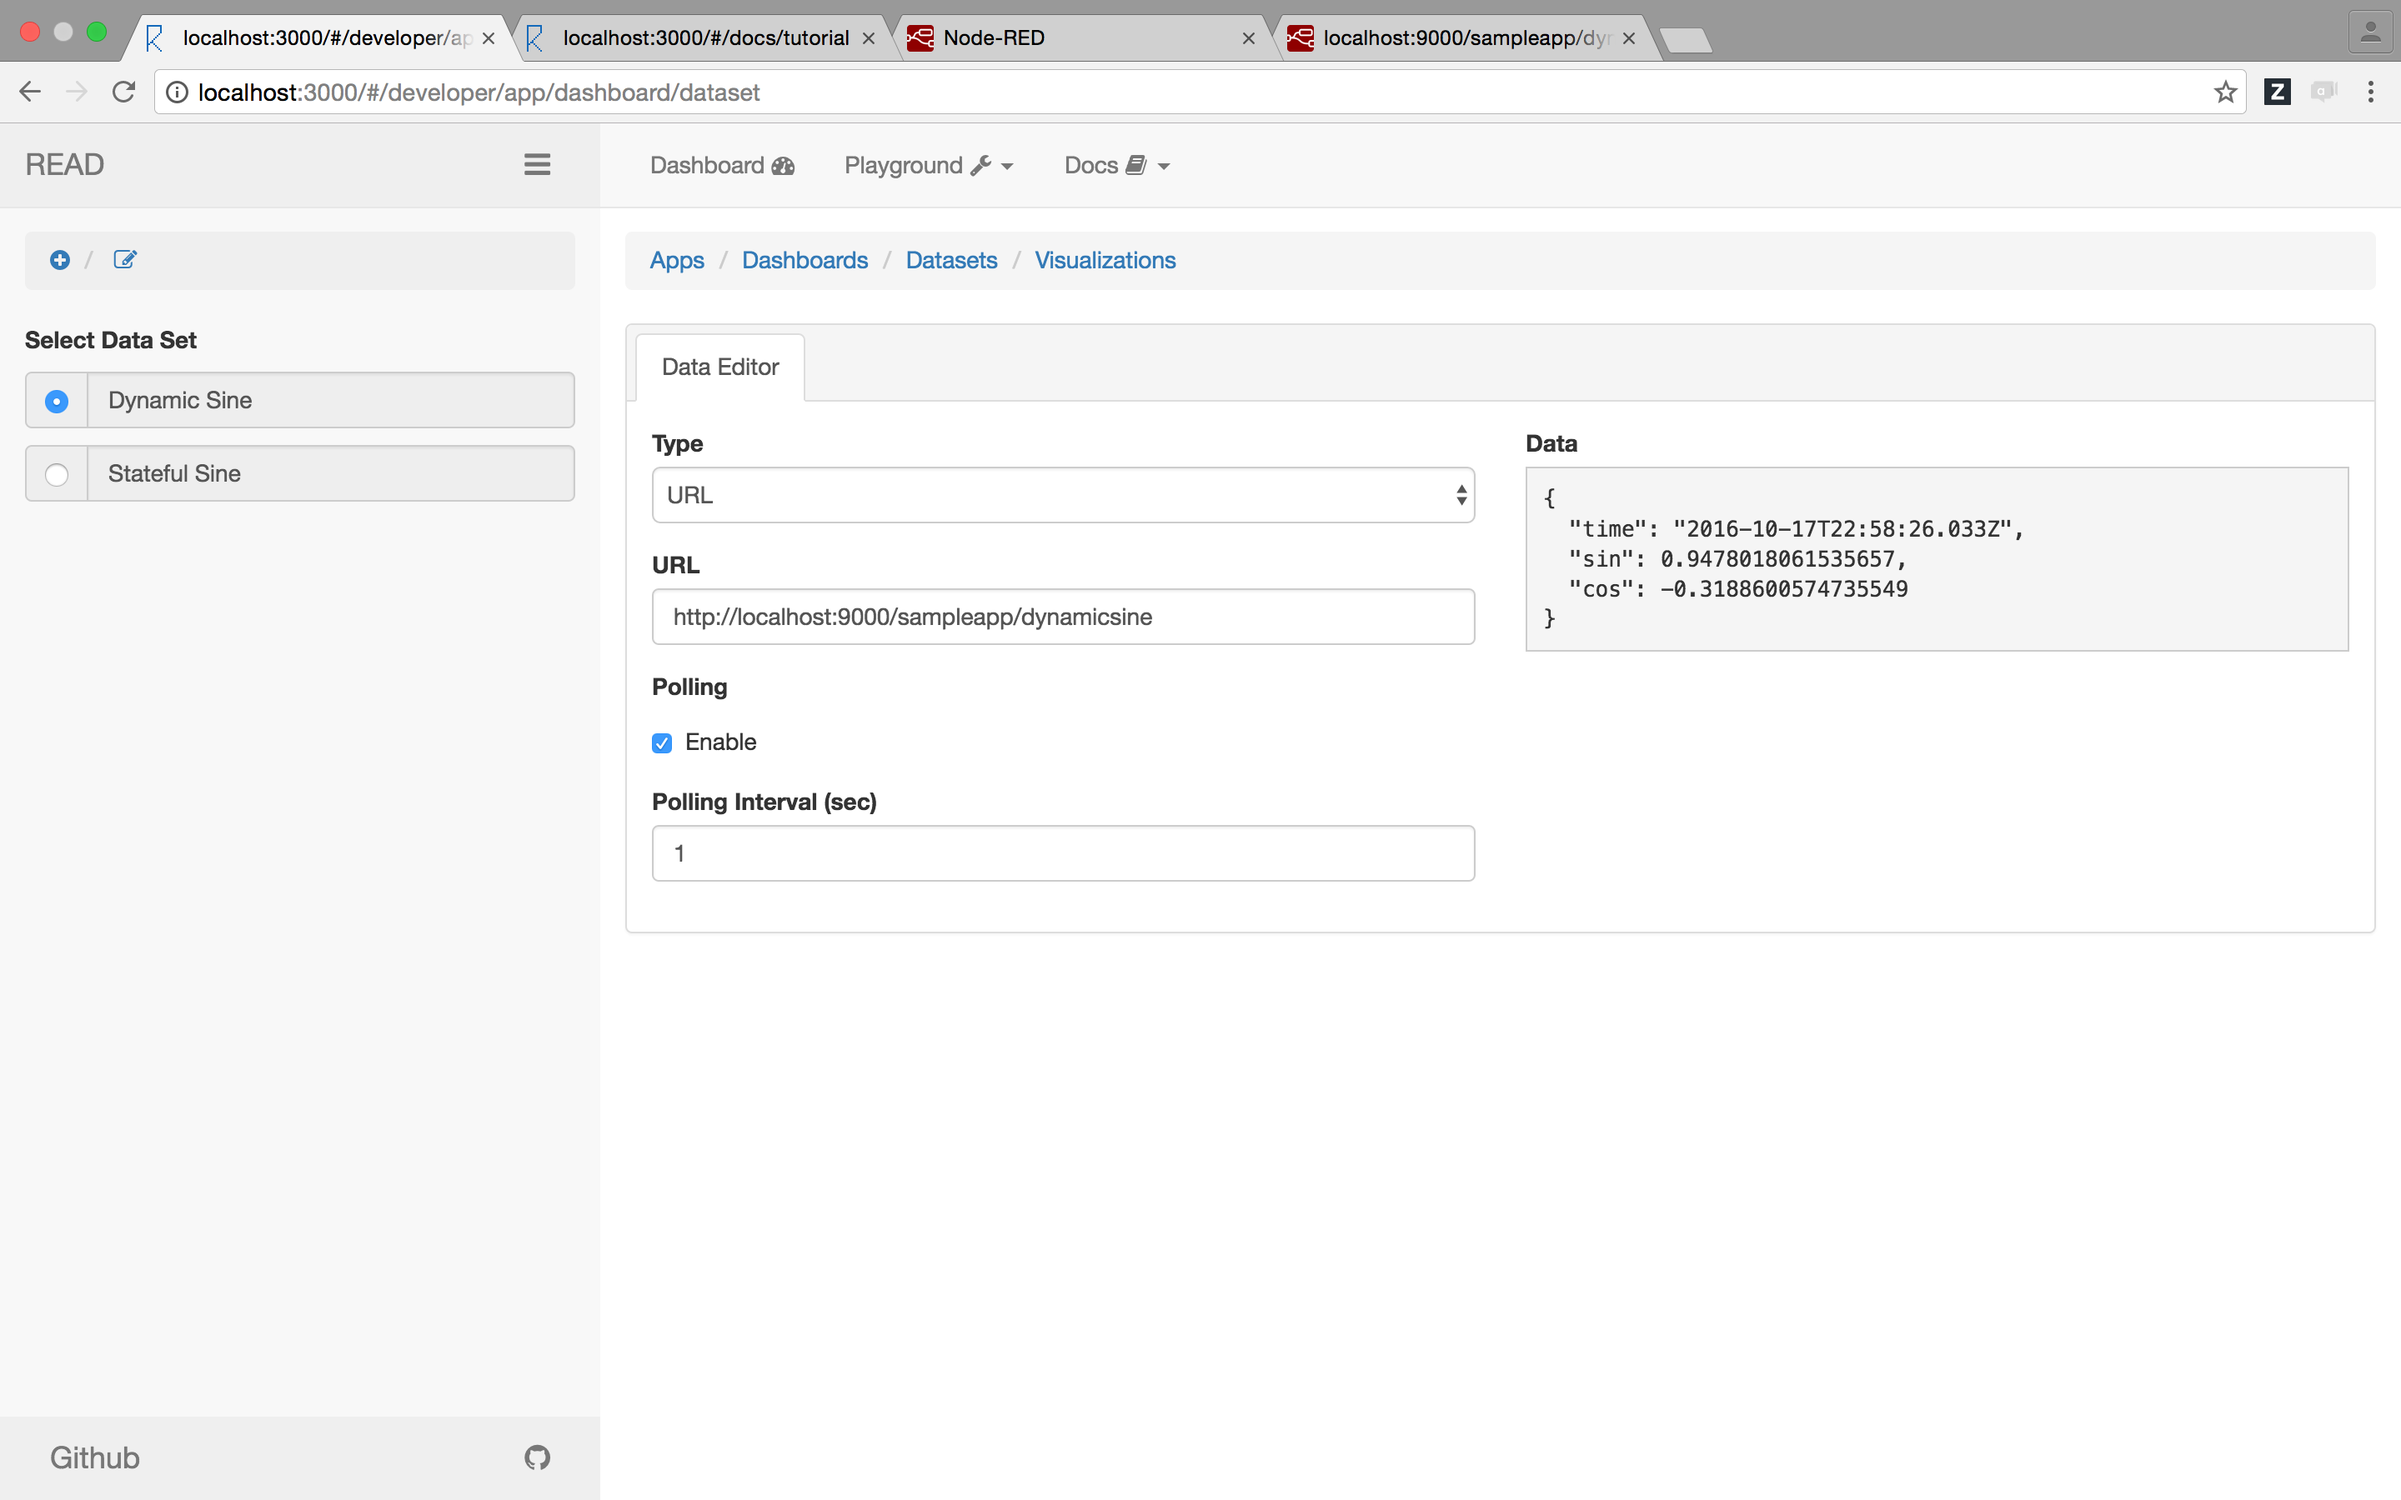
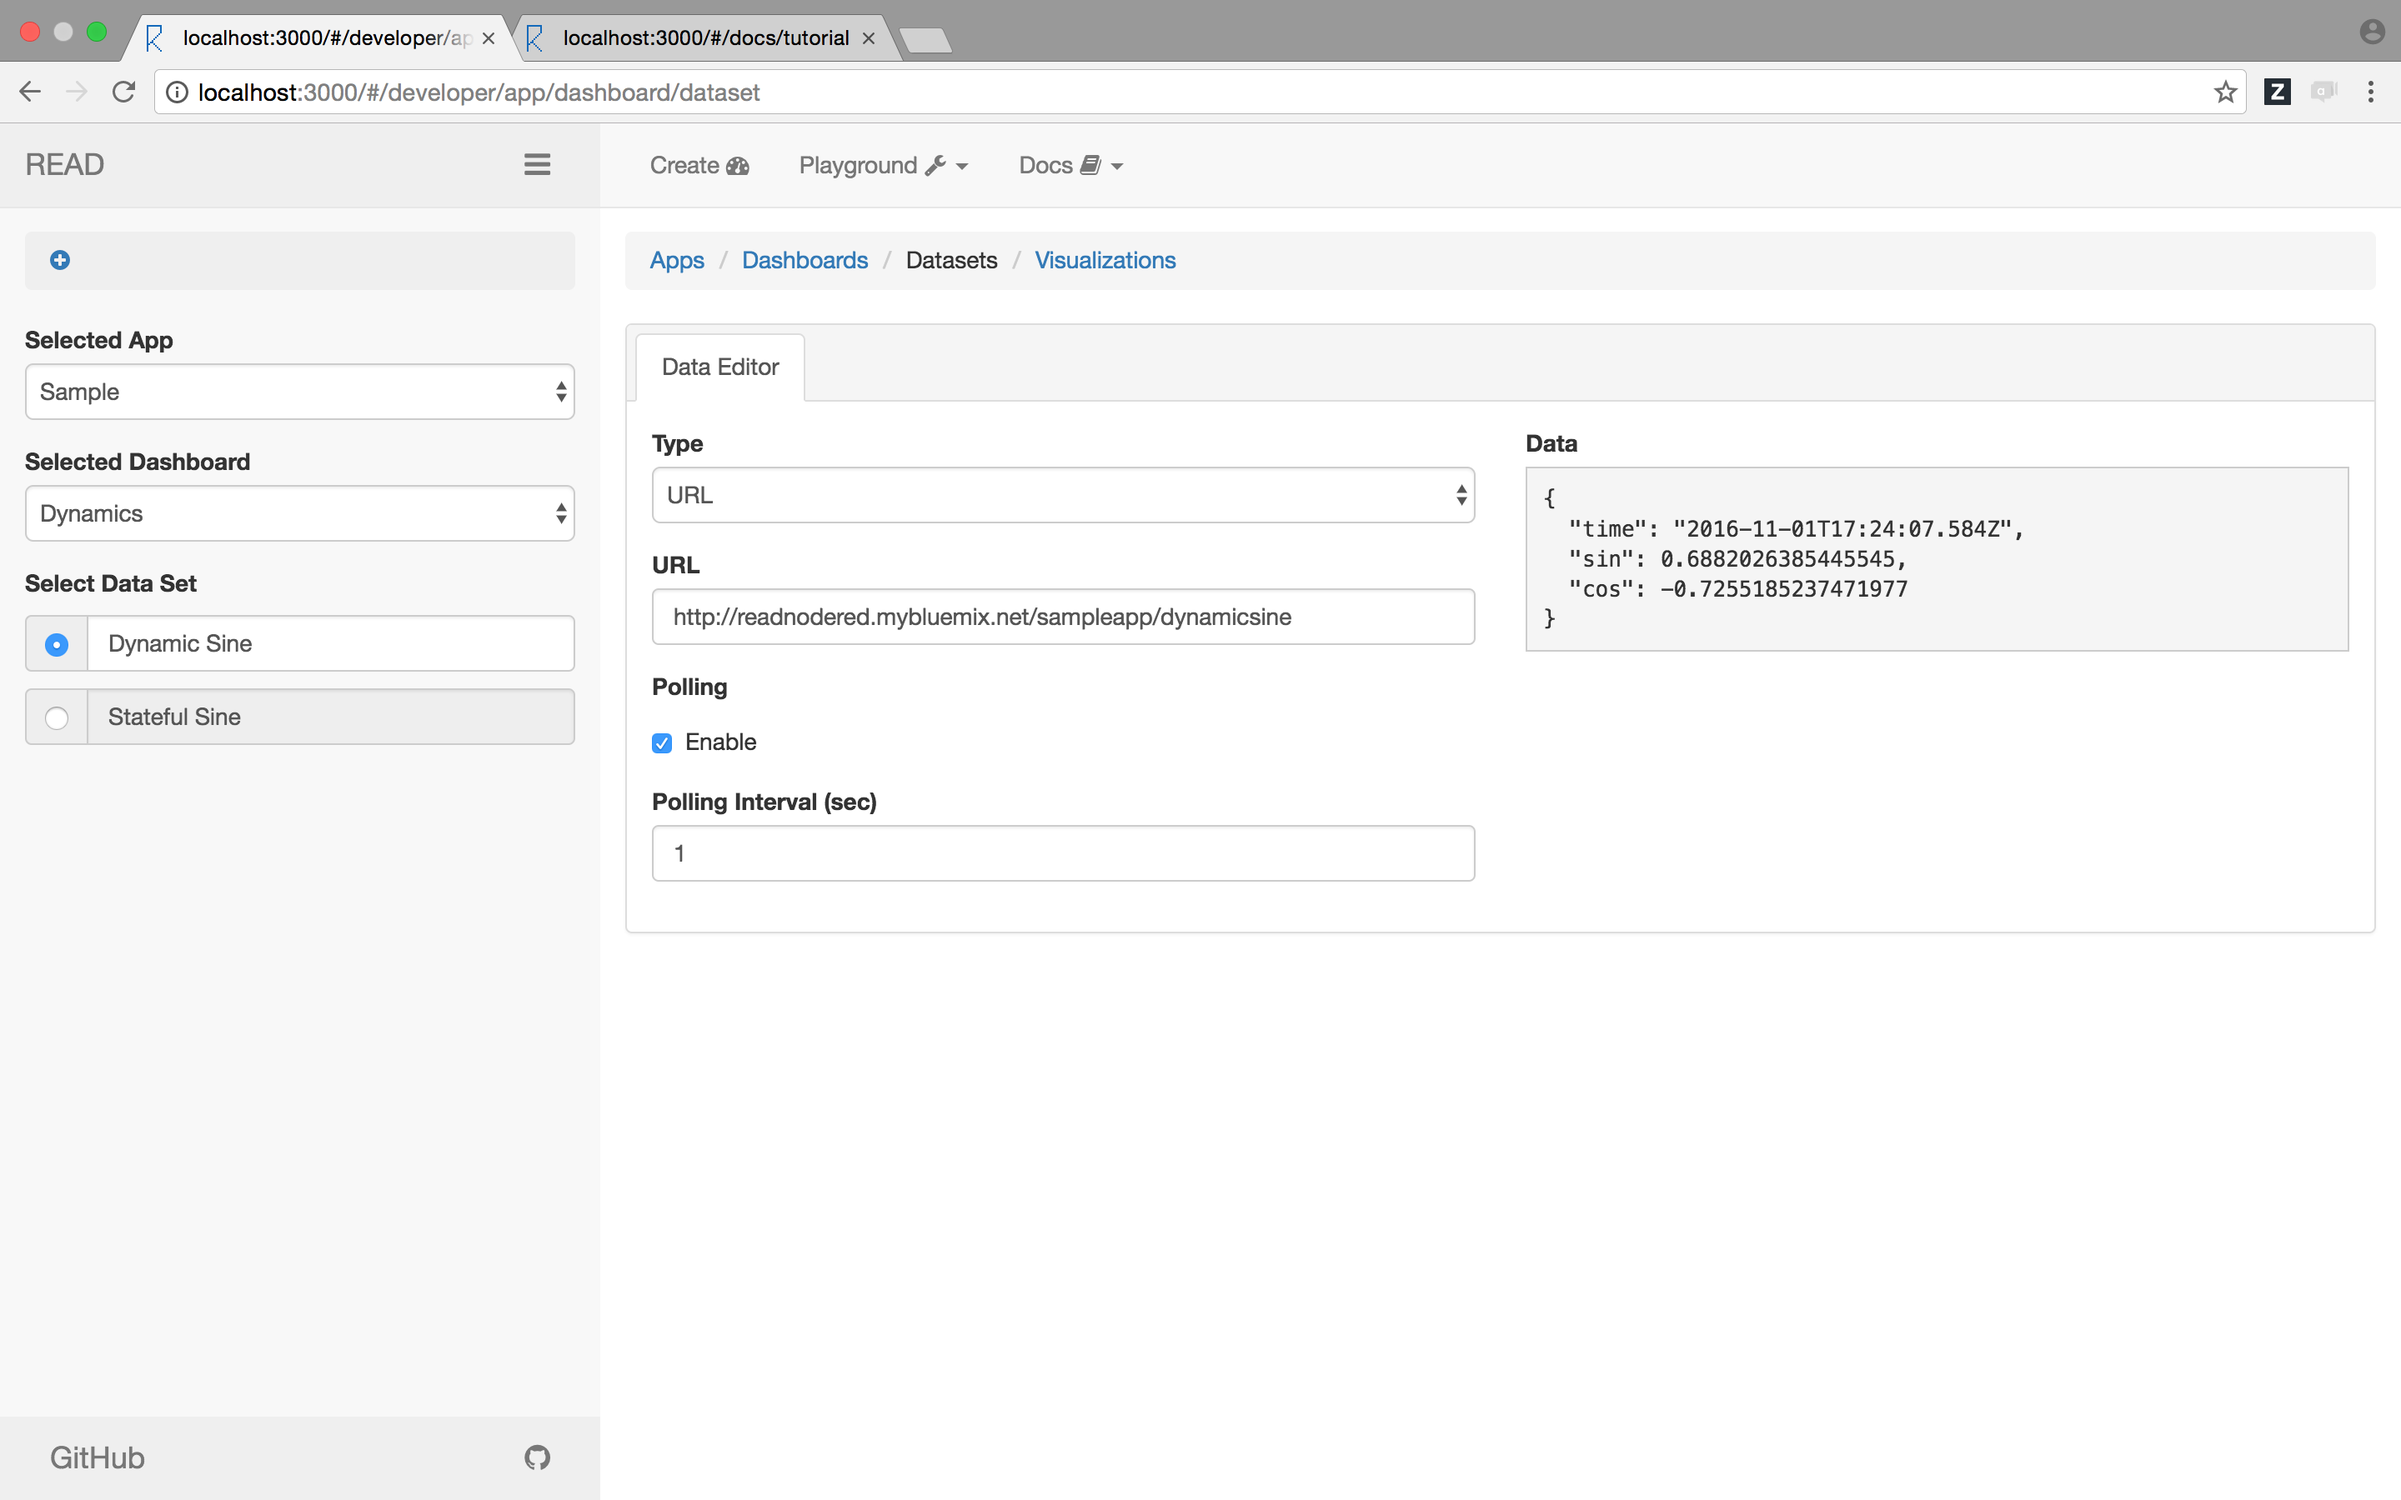
fixed tutorial

diff --git a/READ.develop/imports/ui/pages/docs/tutorial/dynamicrealtimecharts/dynamiccharts.html b/READ.develop/imports/ui/pages/docs/tutorial/dynamicrealtimecharts/dynamiccharts.html
@@ -8,24 +8,7 @@
 </blockquote>
 
 <div class="row">
-  <div class="col-sm-6 col-md-3">
-    <div class="thumbnail">
-      <a href="javascript:void(0)" ng-click="mainContentCtrl.openModel('/images/tutorial/advancedusecases/statefultransform.1.png')">
-        <img src="/images/tutorial/advancedusecases/statefultransform.1.png" alt="node-RED flow"></img>
-      </a>
-      <div class="caption">
-        <h4>Create Dynamic API</h4>
-        In a terminal:
-        <ul>
-          <li><code class="word-wrap">cd streamsx.visualization/READ.develop/private/samples/nodered</code></li>
-          <li><code class="word-wrap">node ../../../node_modules/node-red/red.js -s settings.js -u samples</code></li>
-        </ul>
-        <p class="word-wrap">This creates a dynamic data API on your machine</p>
-      </div>
-    </div>
-  </div>
-
-  <div class="col-sm-6 col-md-3">
+  <div class="col-sm-6 col-md-4">
     <div class="thumbnail">
       <a href="javascript:void(0)" ng-click="mainContentCtrl.openModel('/images/tutorial/advancedusecases/statefultransform.2.png')">
         <img src="/images/tutorial/advancedusecases/statefultransform.2.png" alt="Dataset Creation"></img>
@@ -34,14 +17,13 @@
         <h4>Create Dynamic Dataset</h4>
         <p class="word-wrap">Create dashboard <code>Dynamic</code>. Create dataset <code>Dynamic Sine</code>.
           Switch the dataset type to <strong>URL</strong> and set the URL to
-          <a href="http://localhost:9000/sampleapp/dynamicsine" target="_blank">
-            http://localhost:9000/sampleapp/dynamicsine</a>. <strong>Enable polling</strong> and set the
+          <a href="http://readnodered.mybluemix.net/sampleapp/dynamicsine" target="_blank">http://readnodered.mybluemix.net/sampleapp/dynamicsine</a>. <strong>Enable polling</strong> and set the
         polling interval to one second.
       </p></div>
     </div>
   </div>
 
-  <div class="col-sm-6 col-md-3">
+  <div class="col-sm-6 col-md-4">
     <div class="thumbnail">
       <a href="javascript:void(0)" ng-click="mainContentCtrl.openModel('/images/tutorial/advancedusecases/statefultransform.3.png')">
         <img src="/images/tutorial/advancedusecases/statefultransform.3.png" alt="Dataset Creation"></img>
@@ -56,7 +38,7 @@
     </div>
   </div>
 
-  <div class="col-sm-6 col-md-3">
+  <div class="col-sm-6 col-md-4">
     <div class="thumbnail">
       <a href="javascript:void(0)" ng-click="mainContentCtrl.openModel('/images/tutorial/advancedusecases/statefultransform.4.png')">
         <img src="/images/tutorial/advancedusecases/statefultransform.4.png" alt="Visualization Creation"></img>
